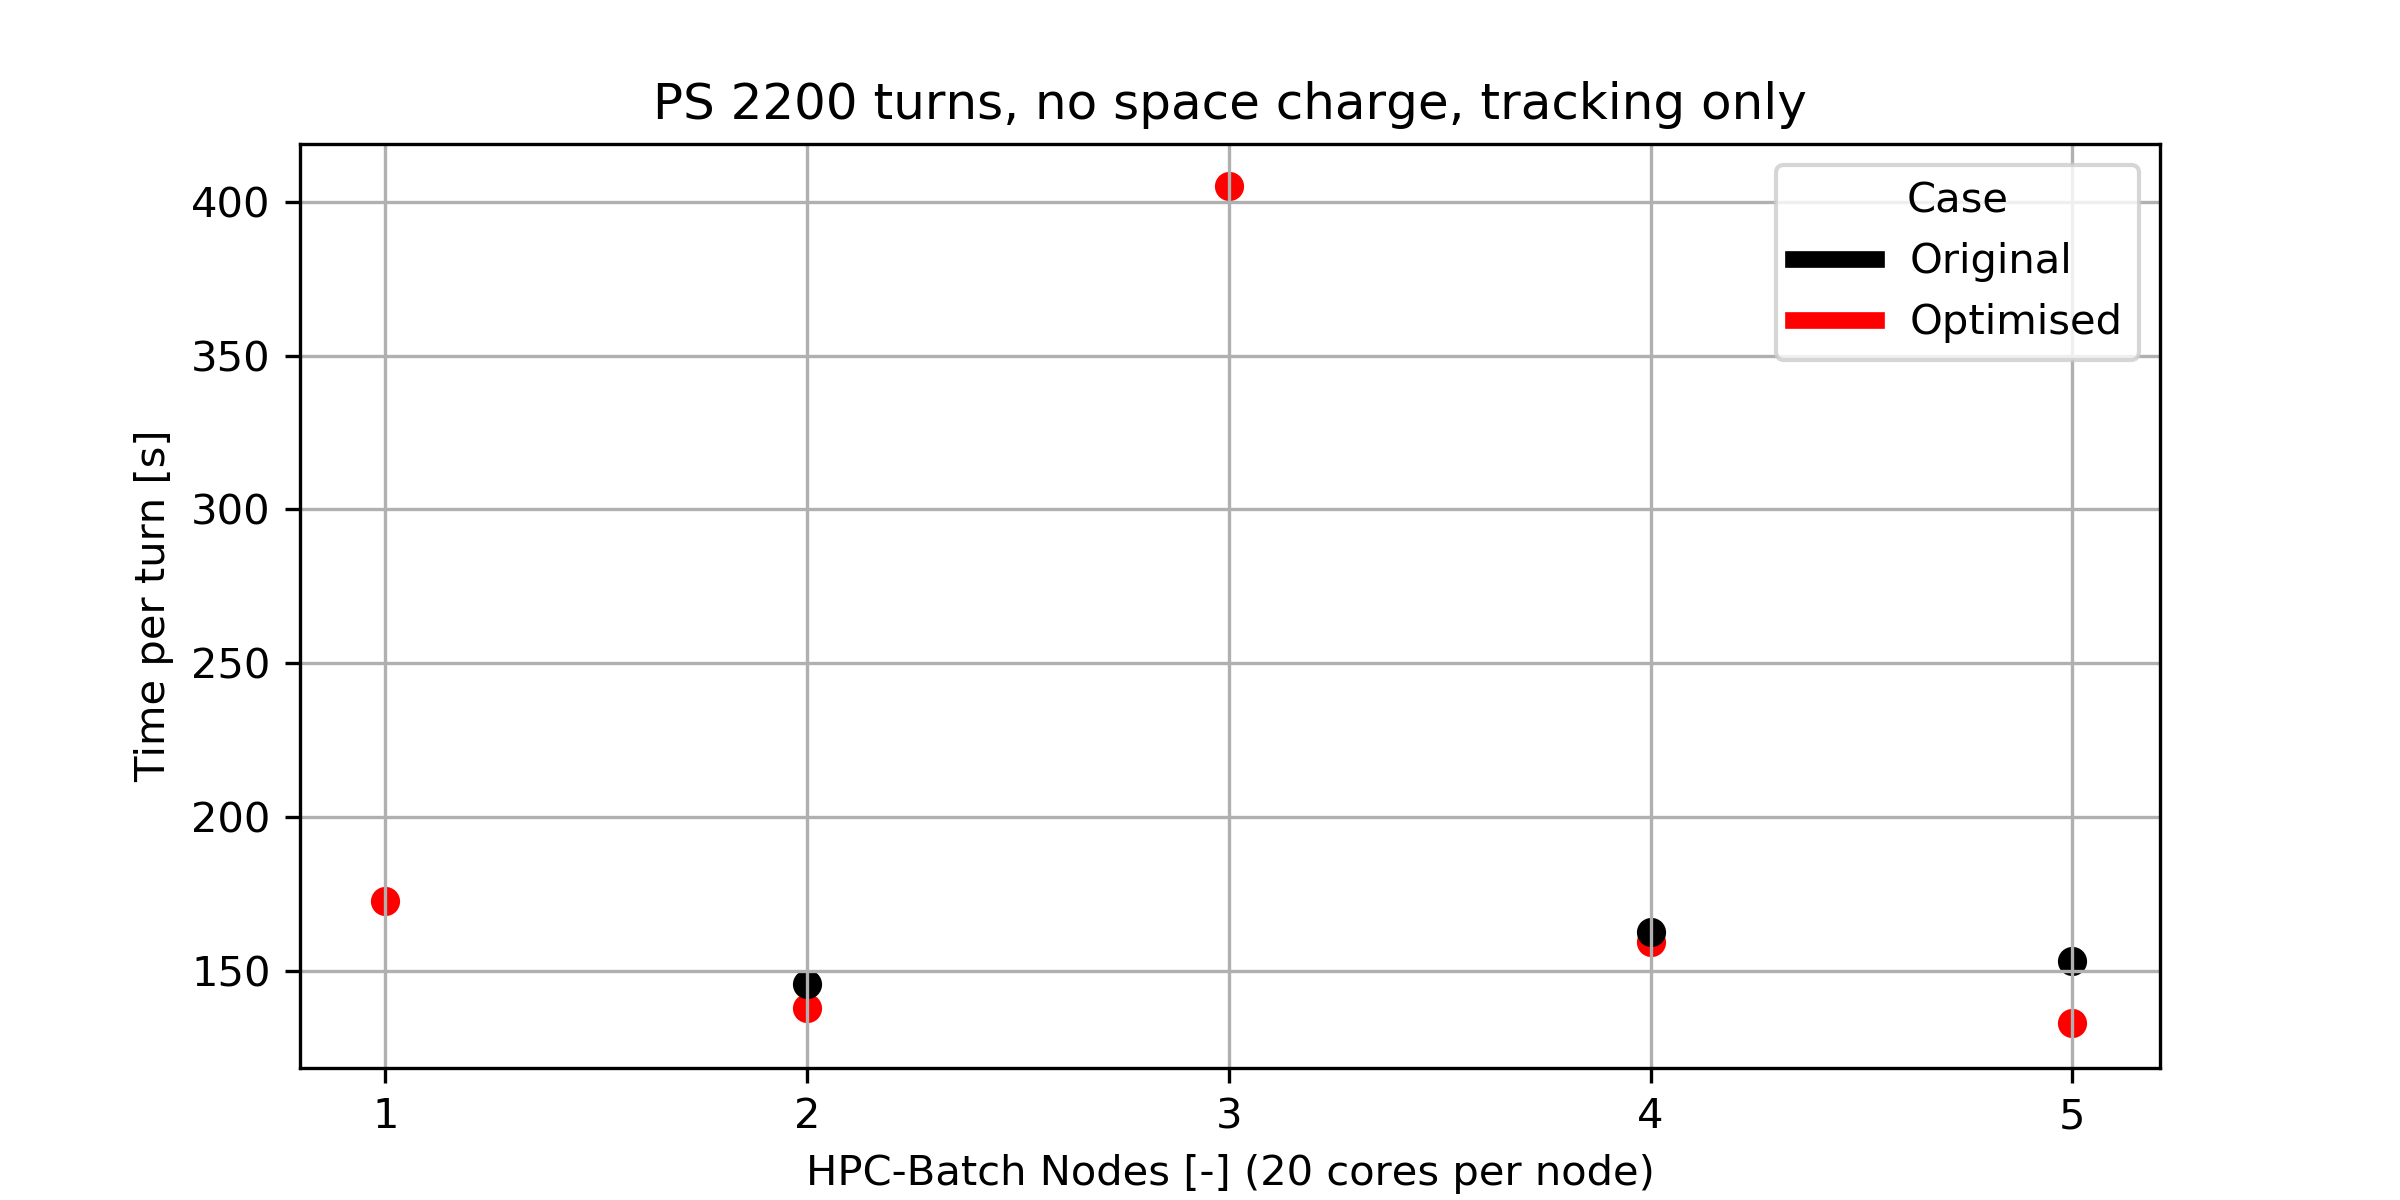
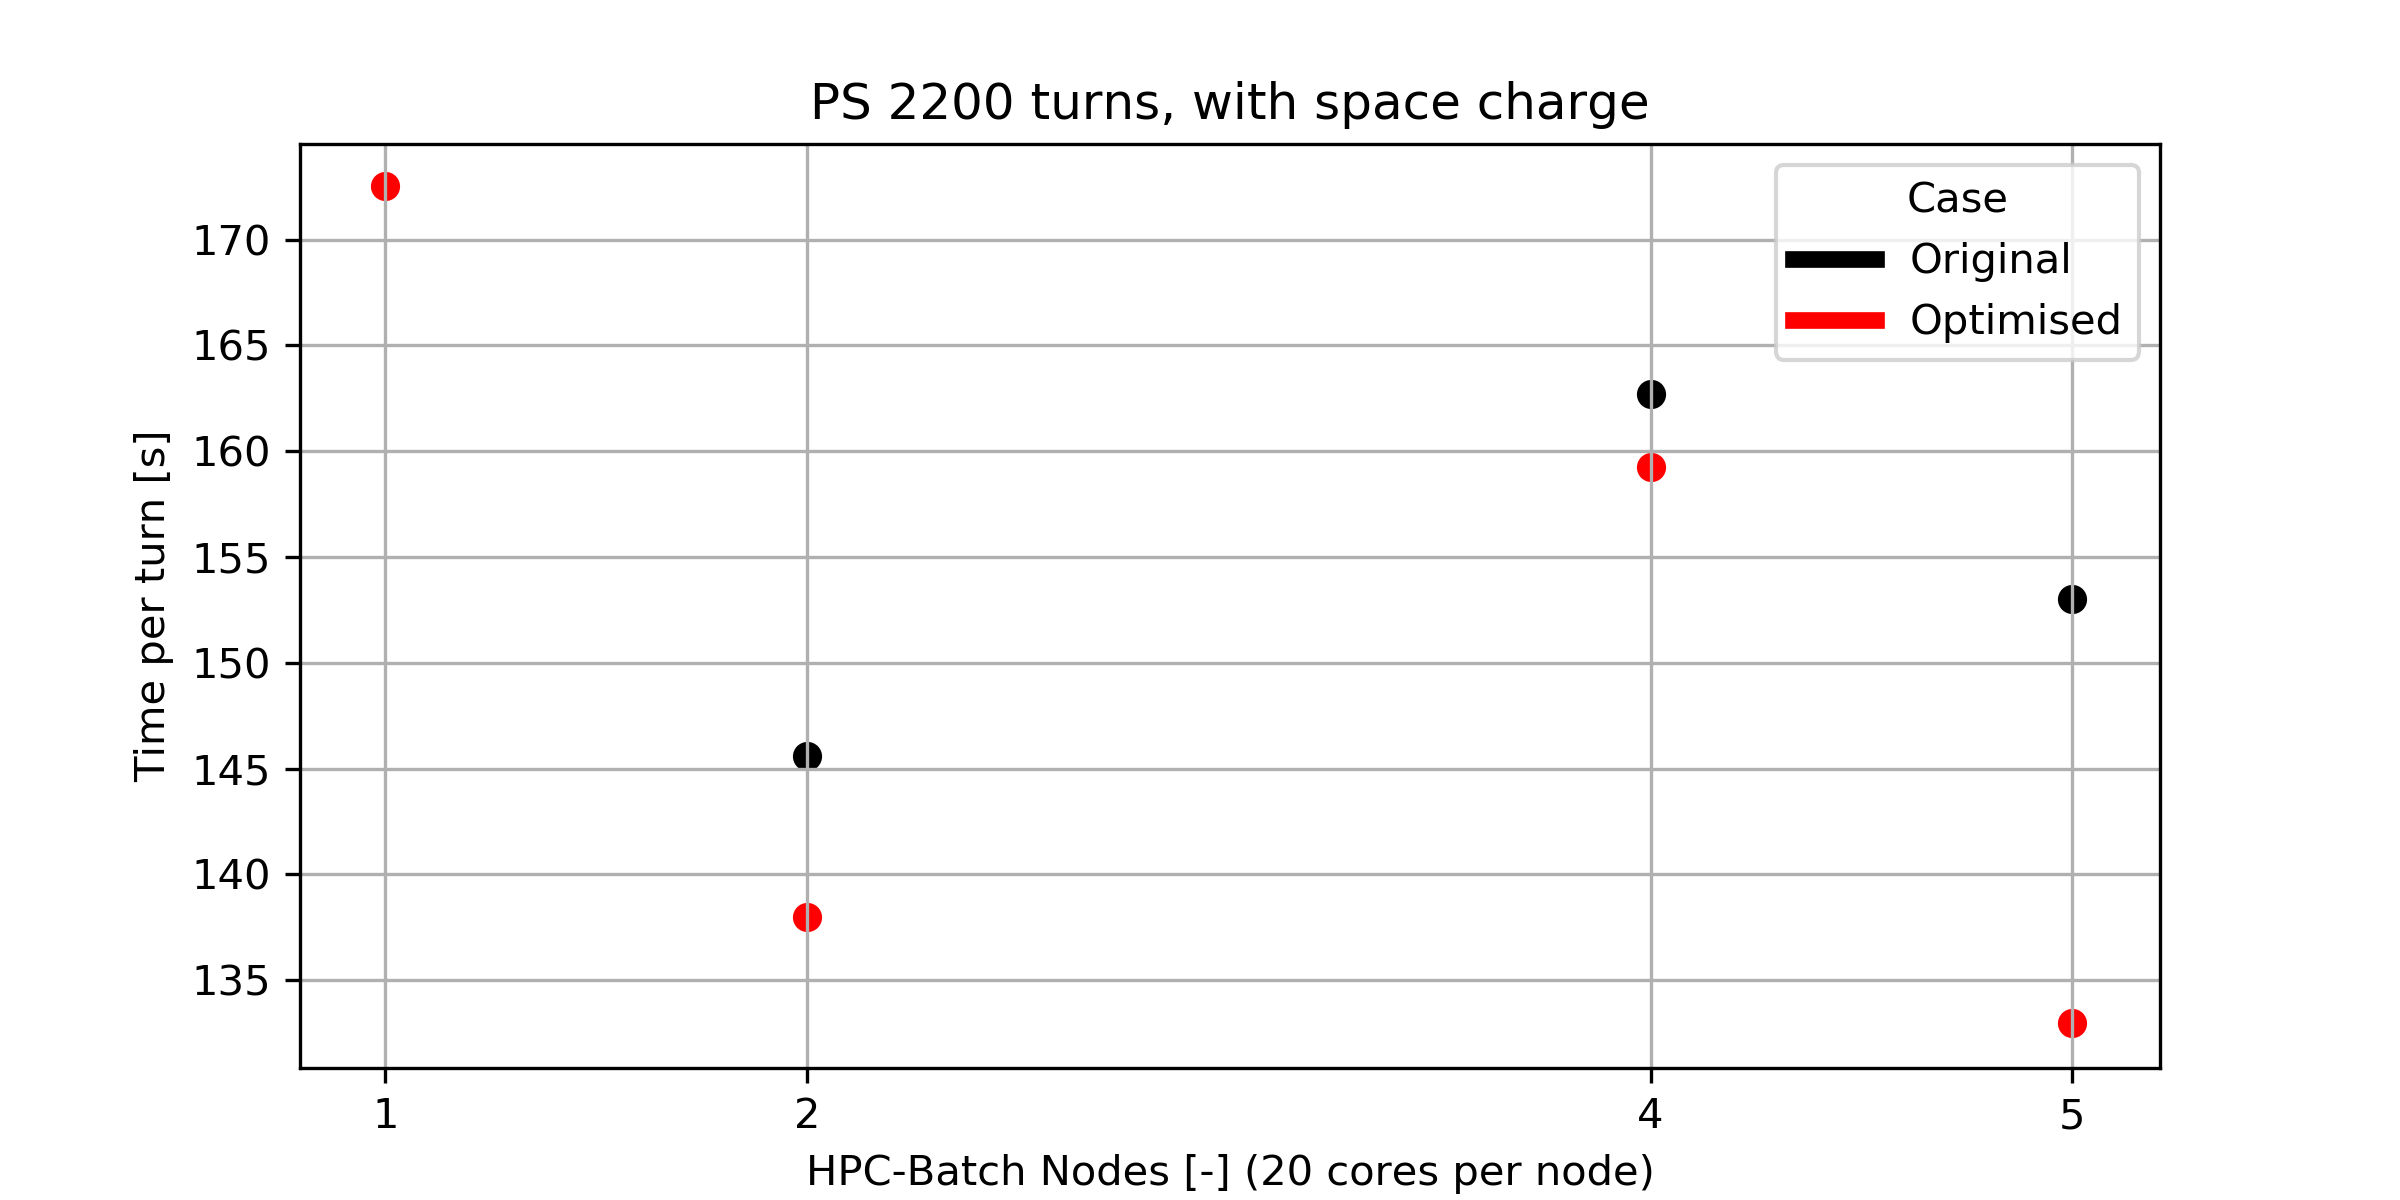
02: Plotting updated

diff --git a/02_HPC_Batch_Scaling_Tests_SC/Plot_All_Outputs_Timing.py b/02_HPC_Batch_Scaling_Tests_SC/Plot_All_Outputs_Timing.py
@@ -74,7 +74,7 @@ def plot_turn_time(sc, dd, filename):
 	ax1.set_xlabel('HPC-Batch Nodes [-] (20 cores per node)');
 	ax1.grid(True);
 	
-	ax1.set_title('PS 2200 turns, no space charge, tracking only')
+	ax1.set_title('PS 2200 turns, with space charge')
 
 	figname = filename + '.png'
 
@@ -96,7 +96,7 @@ dd = add_input_file(dd, './04_Original_Lattice_Tracking/output/output.mat', '4 O
 dd = add_input_file(dd, './05_Original_Lattice_Tracking/output/output.mat', '5 Original')
 dd = add_input_file(dd, './11_New_Lattice_Tracking/output/output.mat', '1 Optimised')
 dd = add_input_file(dd, './12_New_Lattice_Tracking/output/output.mat', '2 Optimised')
-dd = add_input_file(dd, './13_New_Lattice_Tracking/output/output.mat', '3 Optimised')
+# ~ dd = add_input_file(dd, './13_New_Lattice_Tracking/output/output.mat', '3 Optimised')
 dd = add_input_file(dd, './14_New_Lattice_Tracking/output/output.mat', '4 Optimised')
 dd = add_input_file(dd, './15_New_Lattice_Tracking/output/output.mat', '5 Optimised')
 print 'Final data dictionary keys: ', dd.keys()
